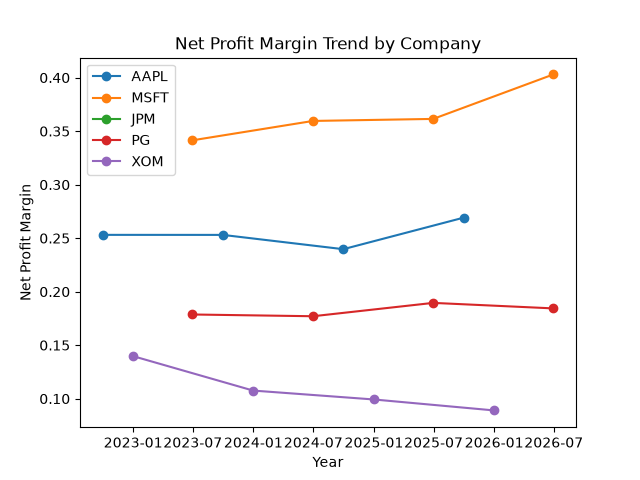
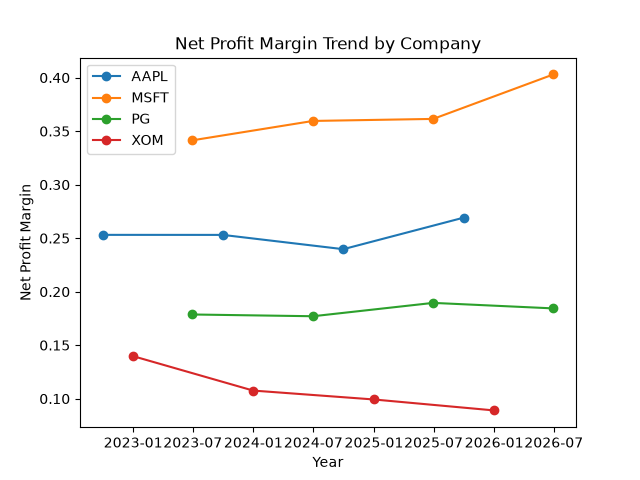
Fix data paths, add clean CSV export for Power BI

diff --git a/main.py b/main.py
@@ -1,9 +1,16 @@
+from pathlib import Path
+
 import yfinance as yf
 import pandas as pd
 import matplotlib.pyplot as plt
 
 pd.set_option('display.max_rows', None)
 pd.set_option('display.width', None)
+
+# Folder paths that work no matter where you run the script from
+BASE_DIR = Path(__file__).parent
+DATA_DIR = BASE_DIR / "data"
+DATA_DIR.mkdir(exist_ok=True)   # creates the folder if it's missing
 
 
 def get_ratios(ticker_symbol):
@@ -41,15 +48,20 @@ all_results = pd.concat(results_list)
 print("\nALL COMPANIES RATIO TABLE")
 print(all_results)
 
-# --- Export to Excel ---
-with pd.ExcelWriter("data/financial_analysis.xlsx", engine="openpyxl") as writer:
+# --- Raw Excel export (separate name so your formatted file is NOT overwritten) ---
+with pd.ExcelWriter(DATA_DIR / "financial_analysis_raw.xlsx", engine="openpyxl") as writer:
     all_results.to_excel(writer, sheet_name="All Companies")
-    for t in tickers:
-        subset = all_results[all_results["Ticker"] == t]
-        subset.to_excel(writer, sheet_name=t)
+    for t in all_results["Ticker"].unique():
+        all_results[all_results["Ticker"] == t].to_excel(writer, sheet_name=t)
+
+# --- Clean CSV for Power BI (written BEFORE the chart, so plt.show() can't block it) ---
+clean = all_results.rename_axis("Period End").reset_index()
+clean["Fiscal Year"] = pd.to_datetime(clean["Period End"]).dt.year
+clean = clean.dropna(subset=["Current Ratio"])   # drops the empty rows
+clean.to_csv(DATA_DIR / "ratios_clean.csv", index=False)
 
 # --- Chart: Net Profit Margin trend across companies ---
-for t in tickers:
+for t in all_results["Ticker"].unique():   # skips JPM, so no empty legend entry
     subset = all_results[all_results["Ticker"] == t].sort_index()
     plt.plot(subset.index, subset["Net Profit Margin"], marker="o", label=t)
 
@@ -57,5 +69,7 @@ plt.title("Net Profit Margin Trend by Company")
 plt.xlabel("Year")
 plt.ylabel("Net Profit Margin")
 plt.legend()
-plt.savefig("data/profit_margin_trend.png")
+plt.savefig(DATA_DIR / "profit_margin_trend.png")
 plt.show()
+
+
